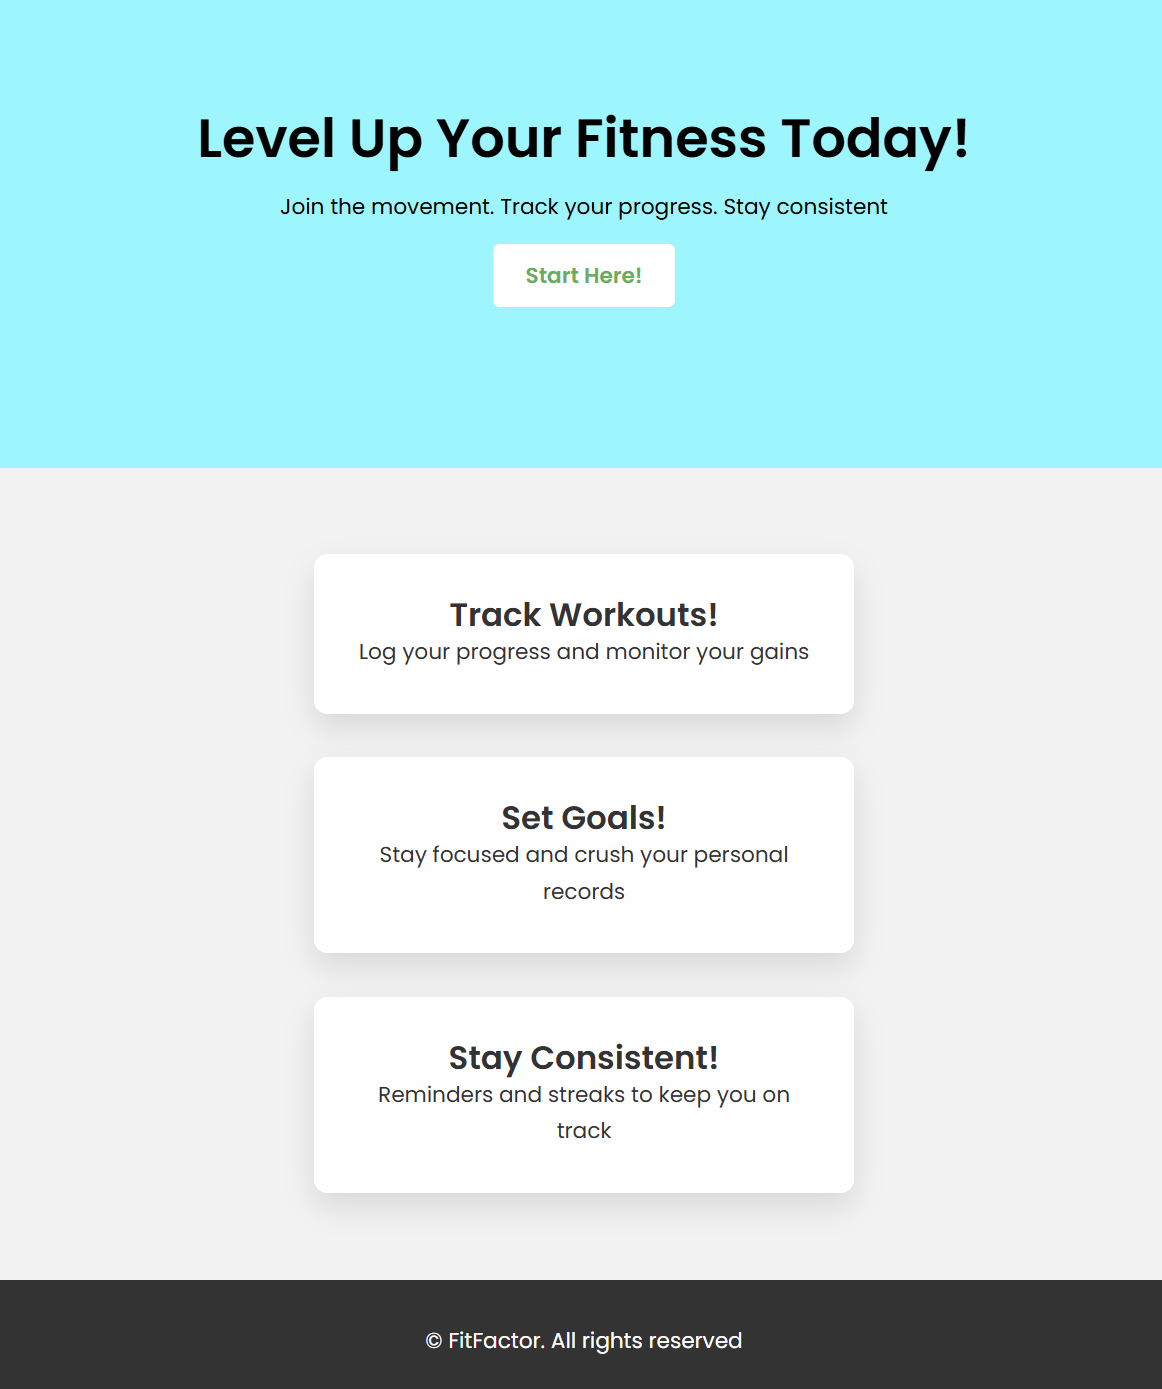
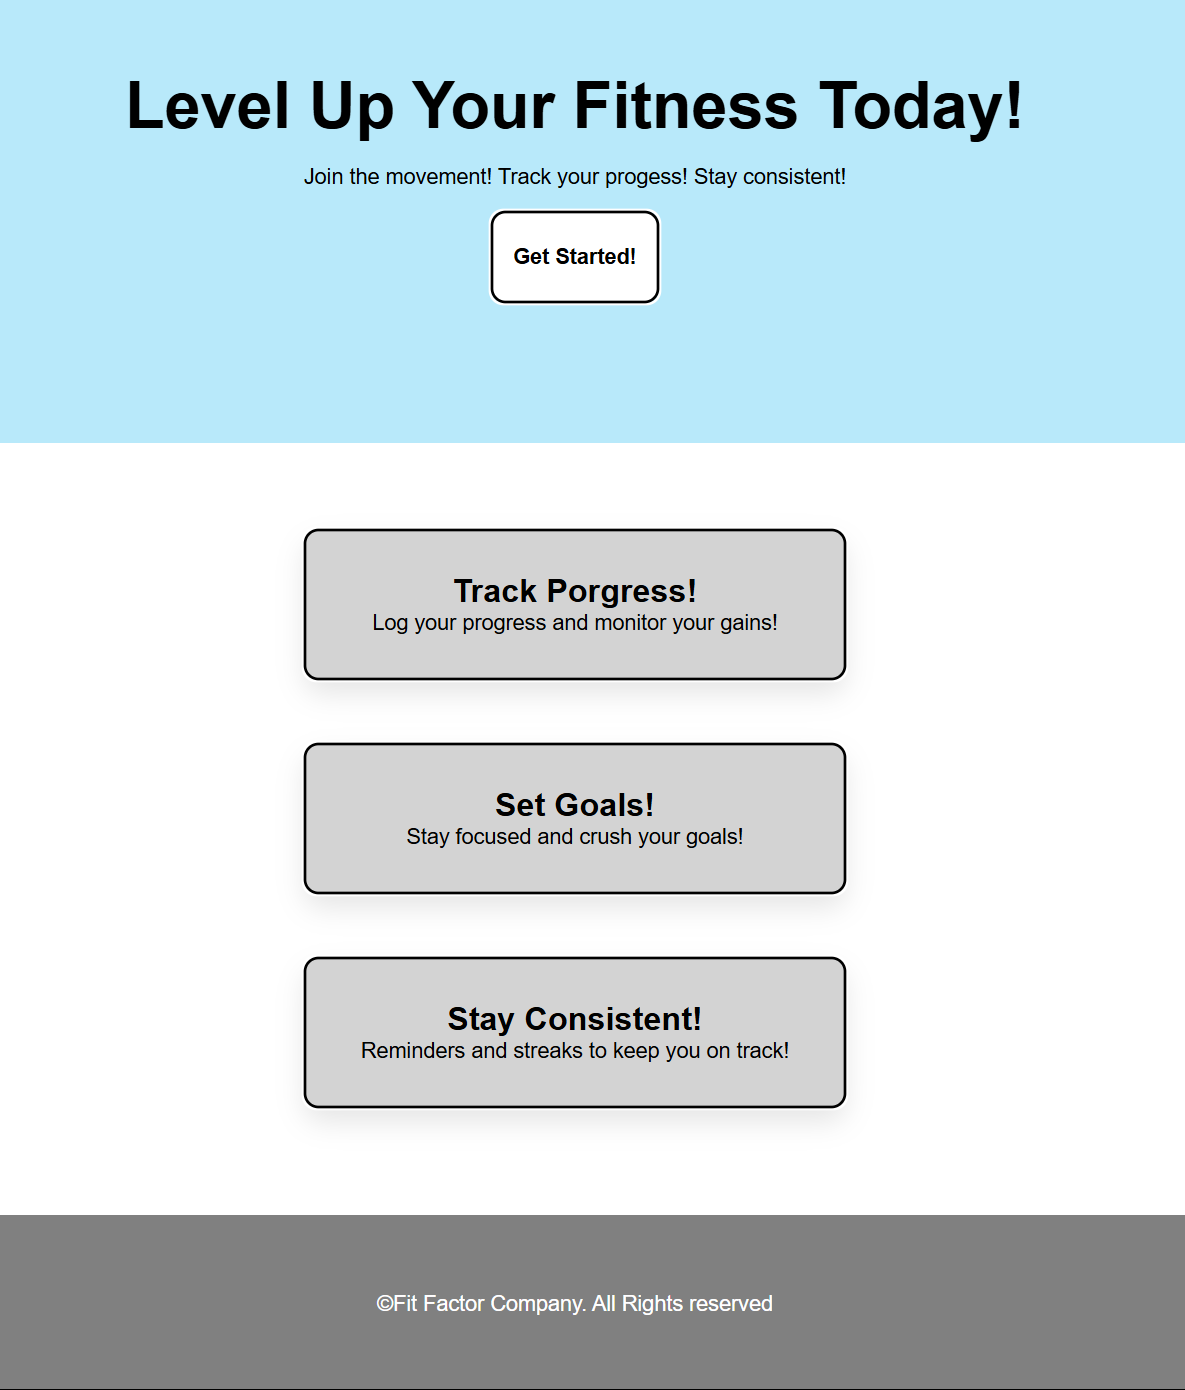
forth iteration

diff --git a/style.css b/style.css
@@ -6,42 +6,45 @@
 
 body {
     font-family: 'Poppin', sans-serif;
-    background: ghostwhite;
-    color: #333;
-    line-height: 2rem;
+    background: rgb(255, 255, 255);
+    color: rgb(0, 0, 0);
+    line-height: 2 rem;
     padding: 0 1rem;
 }
 
 header {
-    background: #7df9ff;
+    background: rgb(171, 235, 252);
     color: black;
     padding: 8rem 1rem;
     text-align: center;
 }
 
 header h1 {
-    font-size: 2.5rem;
-    margin-bottom: 1.5rem;
+    font-size: 3.0rem;
+    margin-bottom: 1.0rem;
 }
 
 header p {
-    font-size: 1.0rem;
-    margin-bottom: 1.5rem;
+    font-size: 1rem;
+    margin-bottom: 2.5rem;
 }
 
 .btn {
-  background: #007BFF;
-  color: white;
-  padding: 0.75rem 1.5rem;
-  border-radius: 8px;
-  text-decoration: none;
-  font-weight: bold;
-  transition: background 0.3s ease, transform 0.3s ease;
+    background: white;
+    color: black;
+    border-radius: 10px;
+    padding: 1.5rem 1rem;
+    margin-top: 1.25rem;
+    text-decoration: none;
+    font-weight: bold;
+    outline: auto;
 }
 
 .btn:hover {
-  background: #0056b3;         /* Darker blue */
-  transform: scale(1.05);      /* Slight zoom on hover */
+    box-shadow: 0 5px 10px rgb(0, 0, 0, .4);
+    background: rgb(32, 44, 49);
+    color: rgb(50, 188, 133);
+    transition: .3s ease;
 }
 
 #features {
@@ -53,18 +56,26 @@ header p {
 }
 
 .feature {
-    background: white;
+    background: rgb(211, 211, 211);
     padding: 2rem;
     border-radius: 10px;
     box-shadow: 0 10px 20px rgba(0,0,0,0.1);
     text-align: center;
     max-width: 400px;
     width: 100%;
+    outline: auto;
+    margin-bottom: 1rem;
 }
 
+.feature:hover {
+    background: rgb(160, 160, 160);
+    transition: 0.3s ease;
+}
+
+
 footer {
-    background: #333;
-    color: white;
+    background: gray;
+    padding: 3.5rem 1rem;
     text-align: center;
-    padding: 2rem 1rem;
+    color: white;
 }

diff --git a/index.html b/index.html
@@ -8,17 +8,20 @@
         <link rel="icon" href="smilingface.png" />
         <title>Fit Factor</title>
     </head>
+    
     <body>
+        <!-- Header -->
         <header>
             <div class="container">
                 <h1>Level Up Your Fitness Today!</h1>
                 <p>Join the movement! Track your progess! Stay consistent!</p>
-                <a href="https://www.youtube.com" class="btn">Get Started</a>
+                <a href="https://youtub.com" class="btn">Get Started!</a>
             </div>
         </header>
 
-        <section id="features">
-            <div class="feature">
+        <!-- Body -->
+         <section id="features">
+             <div class="feature">
                 <h2>Track Porgress!</h2>
                 <p>Log your progress and monitor your gains!</p>
             </div>
@@ -30,10 +33,10 @@
                 <h2>Stay Consistent!</h2>
                 <p>Reminders and streaks to keep you on track!</p>
             </div>
-        </section>
+         </section>
 
-        <footer>
-            <p>&copy;FitFactor. All right reserverd.</p>
-        </footer>
+         <footer>
+            <p>&copy;Fit Factor Company. All Rights reserved</p>
+         </footer>
     </body>
 </html>
